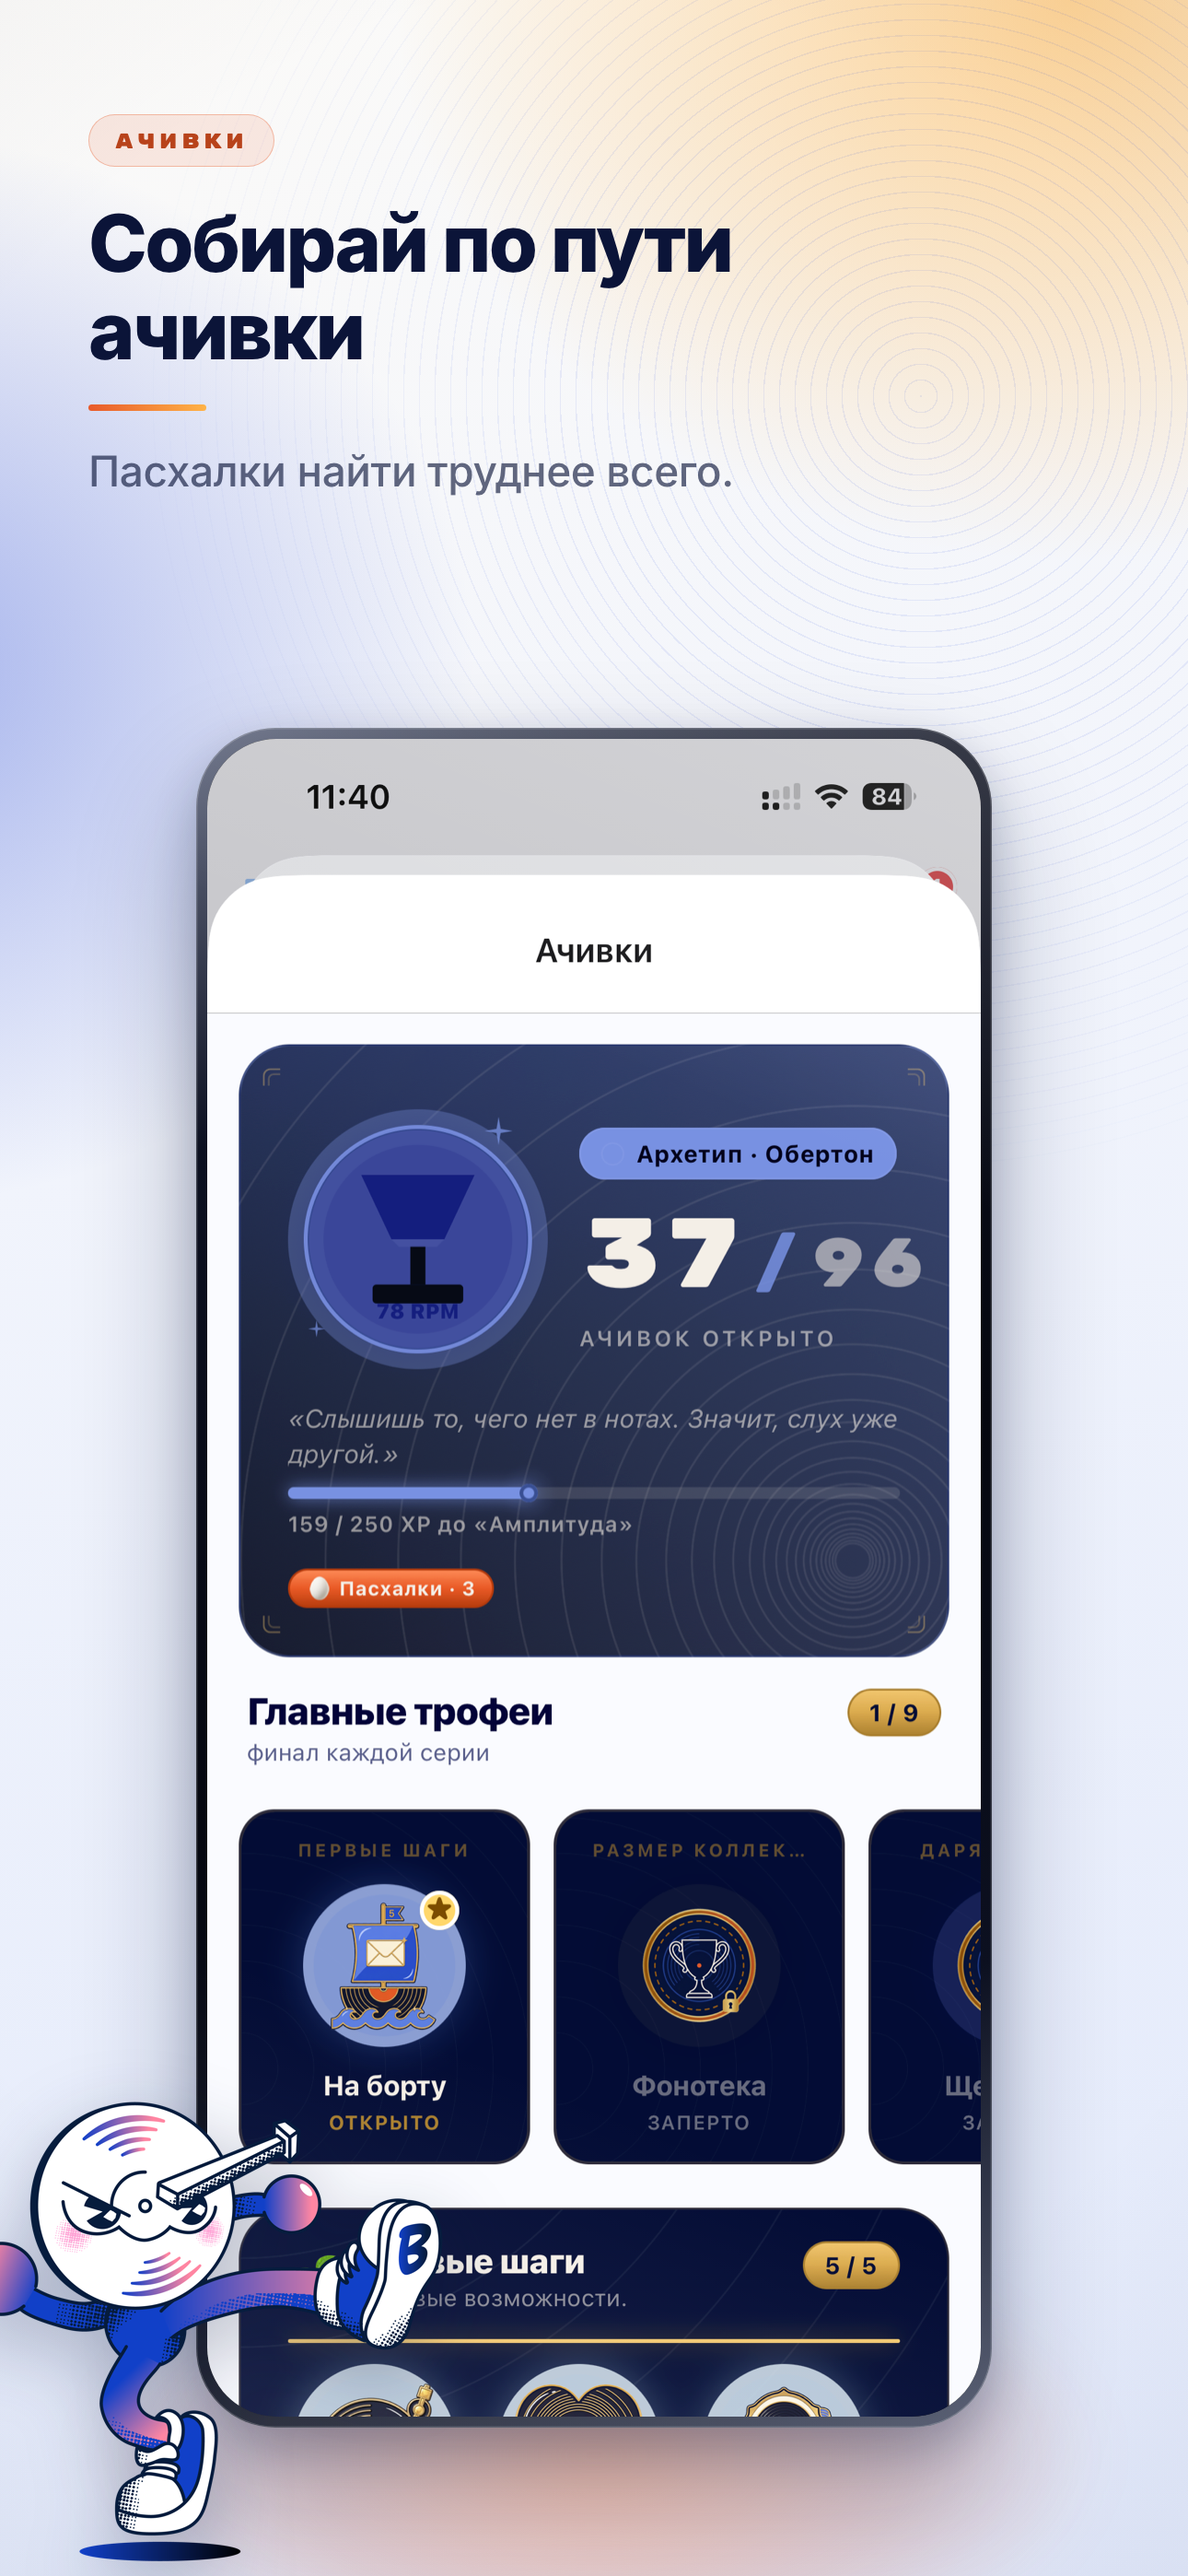
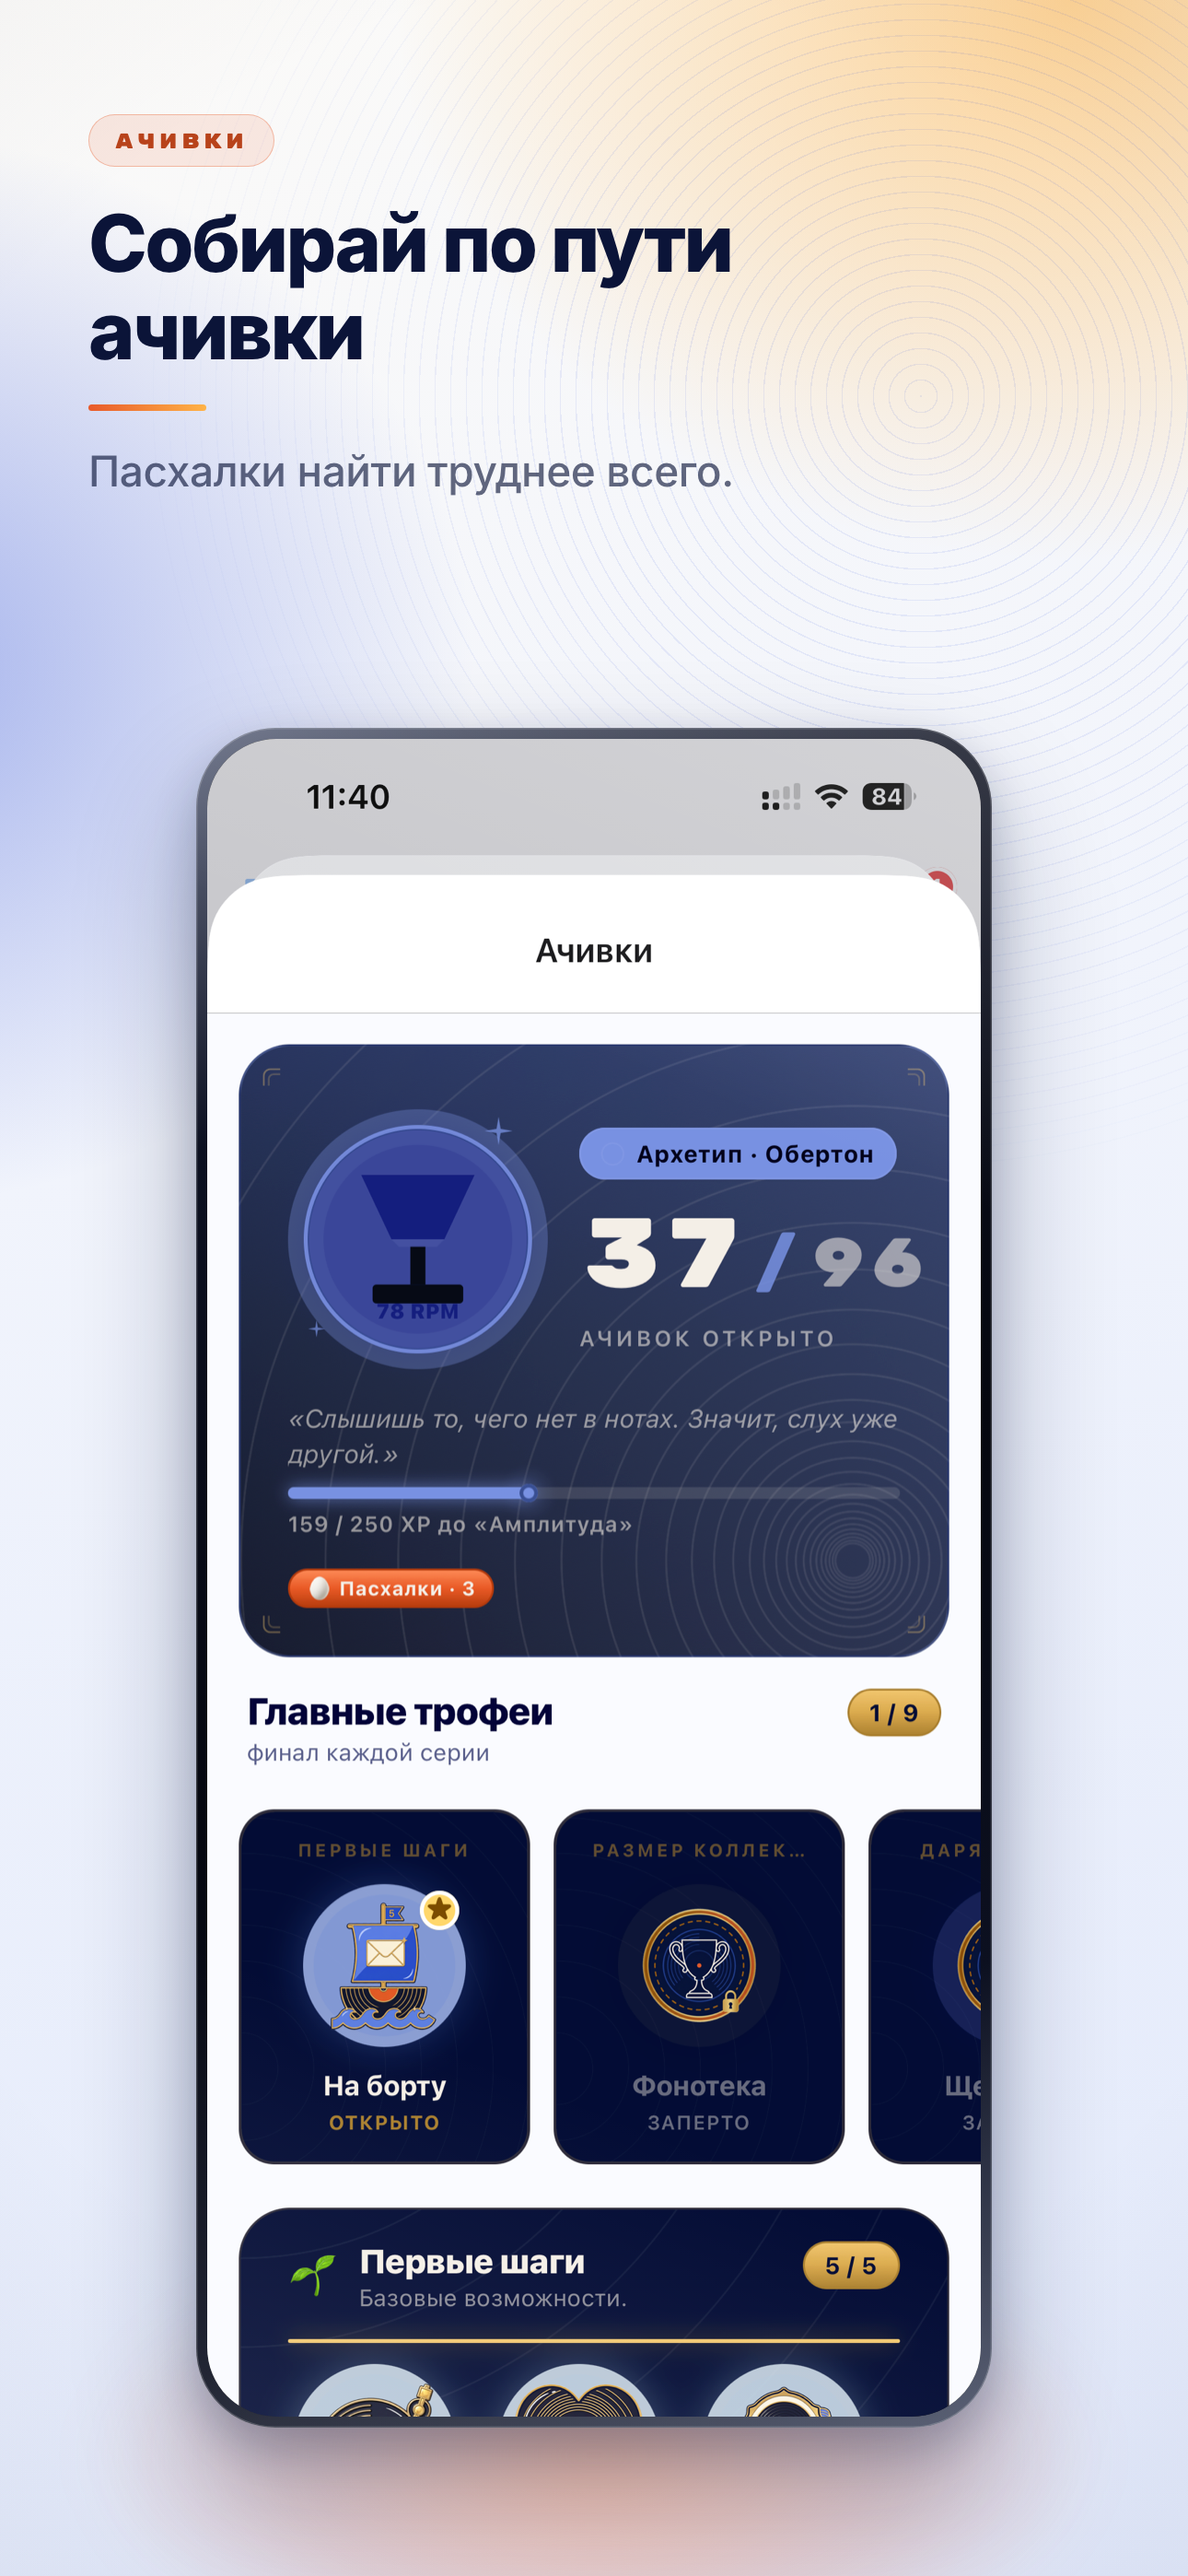
feat(appstore): кадр Коллекции, маскот только на оценке стоимости
Маскот стал опцией слайда (флаг mascot в SLIDES) — на остальных кадрах он
перекрывал контент скриншота.

Changed region(s): [[0.0, 0.809, 0.3721, 1.0]]

diff --git a/Вертушка/Design/appstore/build.py b/Вертушка/Design/appstore/build.py
@@ -97,6 +97,7 @@ SLIDES = [
         "glow": "radial-gradient(1200px 980px at 90% 0%, rgba(150,124,240,.64), transparent 62%),"
                 "radial-gradient(1040px 940px at -10% 28%, rgba(42,75,215,.38), transparent 62%)",
         "pool": "rgba(232,180,192,.66),rgba(150,124,240,.20) 48%",
+        "mascot": True,
     },
     {
         "slug": "04-collection",
@@ -168,7 +169,10 @@ def html_for(slide: dict, faces: str) -> str:
     frame_w, frame_h = sw + BEZEL * 2, sh + BEZEL * 2
     pool_top = PHONE_TOP + frame_h - 300
     shot = data_uri(shot_path, "image/png")
-    mascot = data_uri(resample(MASCOT, MASCOT_W, "mascot.png"), "image/png")
+    mascot = (
+        f'<div class="mascot"><img src="{data_uri(resample(MASCOT, MASCOT_W, "mascot.png"), "image/png")}"></div>'
+        if slide.get("mascot") else ""
+    )
     P = PALETTE
     return f"""<meta charset="utf-8">
 <style>
@@ -234,7 +238,7 @@ p{{margin-top:34px;font-size:46px;line-height:62px;letter-spacing:-.4px;white-sp
     <p>{slide['sub']}</p>
   </div>
   <div class="phone"><div class="screen"><img src="{shot}"></div></div>
-  <div class="mascot"><img src="{mascot}"></div>
+  {mascot}
 </div>"""
 
 

diff --git a/Вертушка/Design/appstore/build_svg.py b/Вертушка/Design/appstore/build_svg.py
@@ -205,12 +205,12 @@ def build(slide: dict) -> str:
         "</g>"
     )
 
-    mw = B.MASCOT_W
-    mh = round(mw * 2322 / 2322)
-    body.append(
-        f'<image id="Маскот" href="../../Logo/Статика/Vert_vpose1.png" '
-        f'x="-52" y="{n(B.H + 8 - mh)}" width="{mw}" height="{mh}"/>'
-    )
+    if slide.get("mascot"):
+        mw = mh = B.MASCOT_W          # исходник маскота квадратный, 2322x2322
+        body.append(
+            f'<image id="Маскот" href="../../Logo/Статика/Vert_vpose1.png" '
+            f'x="-52" y="{n(B.H + 8 - mh)}" width="{mw}" height="{mh}"/>'
+        )
 
     return (
         f'<svg xmlns="http://www.w3.org/2000/svg" width="{B.W}" height="{B.H}" '
